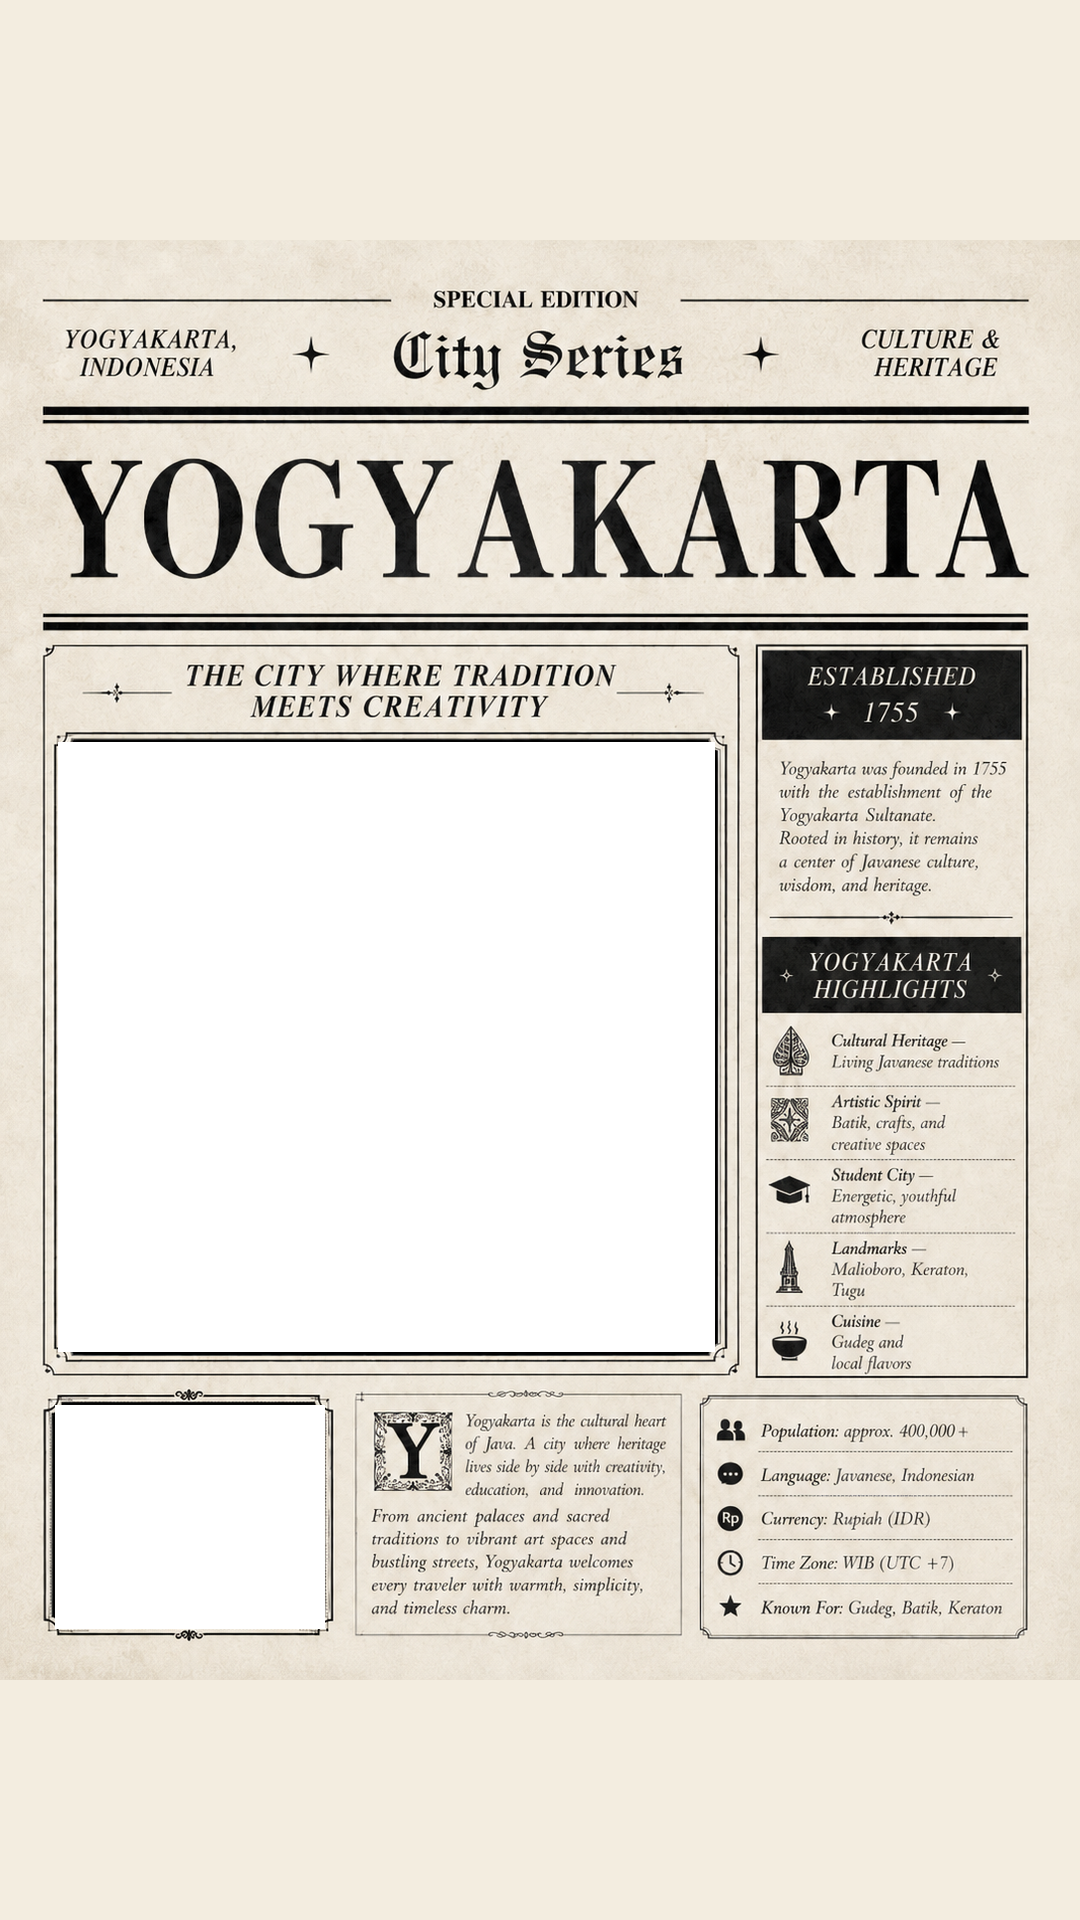
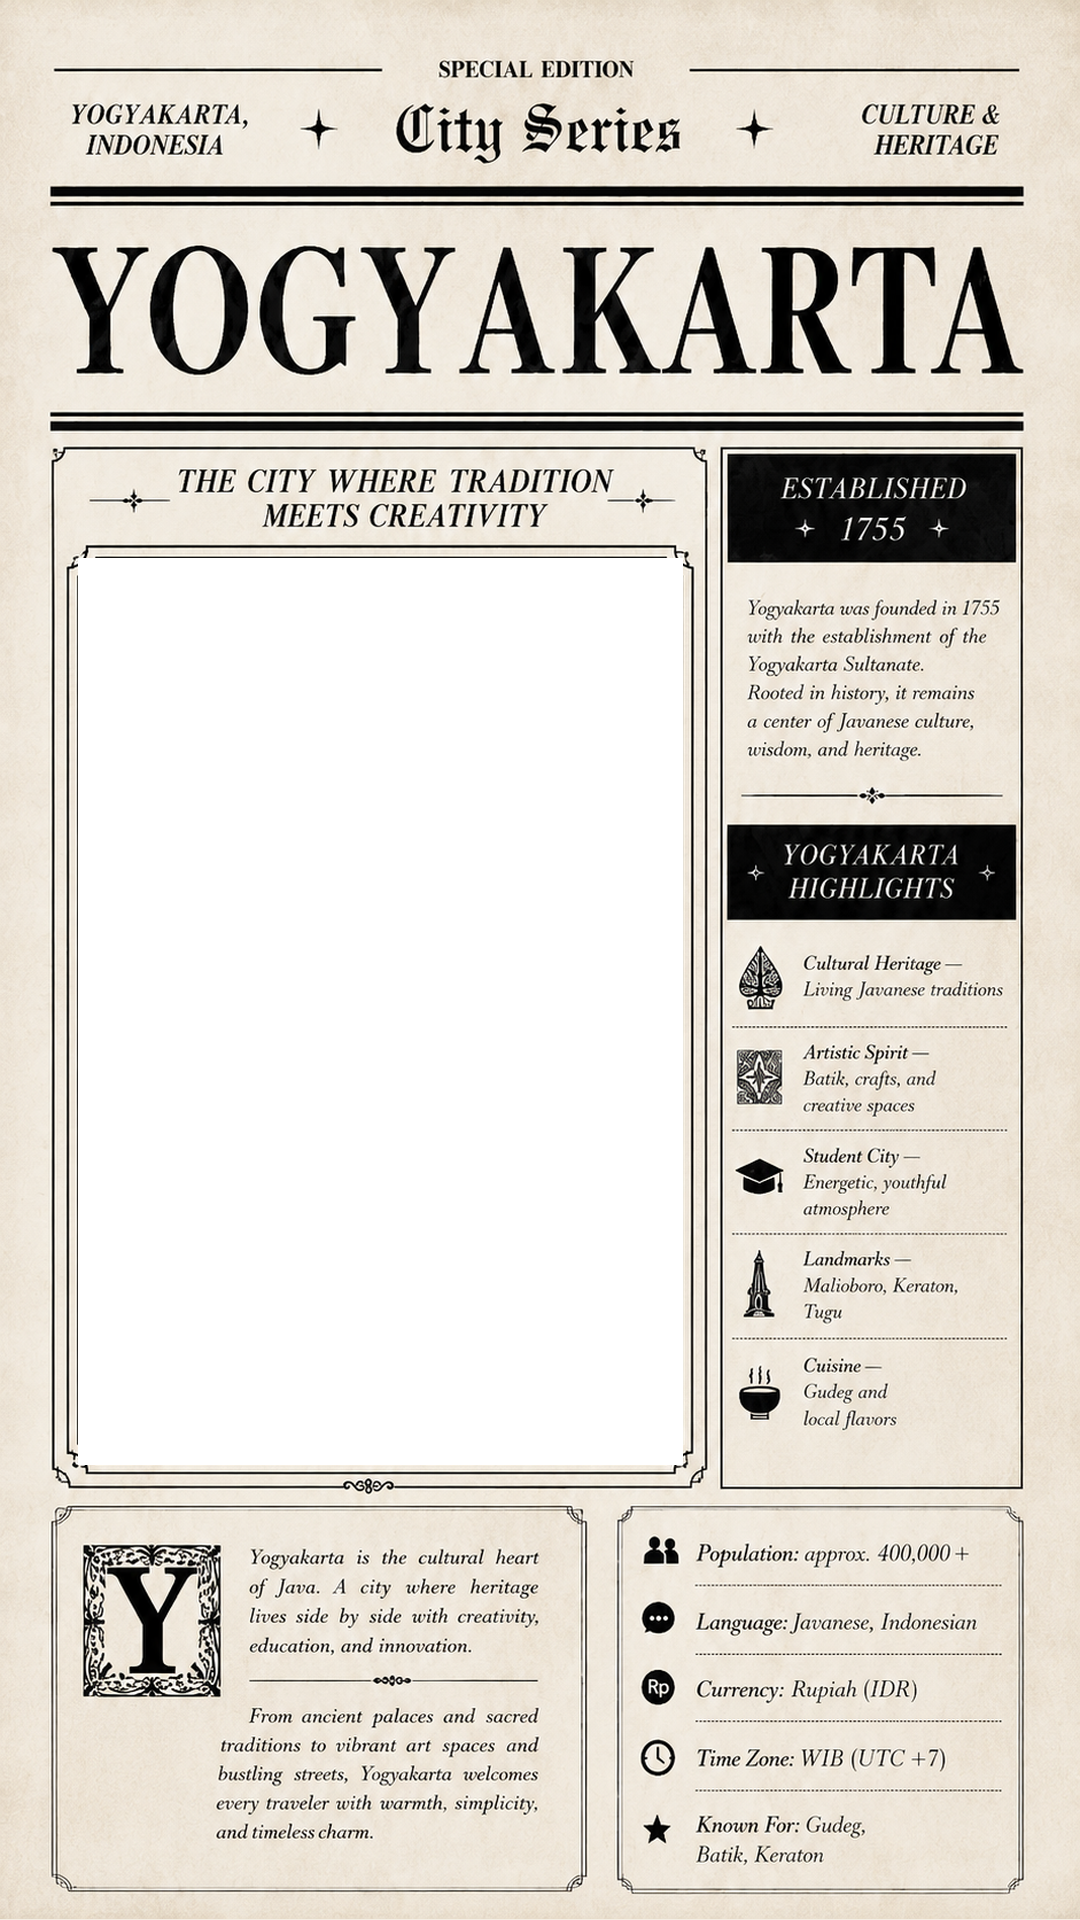
Add files via upload

diff --git a/app.js b/app.js
@@ -65,98 +65,27 @@ const FRAME_CONFIGS = {
     path: 'assets/frames/wisuda-story.png',
     baseSlot: { x: 74, y: 240, w: 932, h: 1175, radius: 14 },
   },
-
   yogyakartaCity: {
     label: 'Yogyakarta City Series',
     path: 'assets/frames/yogyakarta-city-series.png',
     slotsByCount: {
       1: [
-        { x: 58, y: 742, w: 656, h: 608 }
+        { x: 78, y: 558, w: 602, h: 905, radius: 10 }
       ],
       2: [
-        { x: 58, y: 742, w: 656, h: 608 },
-        { x: 55, y: 1399, w: 268, h: 223 }
+        { x: 78, y: 558, w: 602, h: 442, radius: 10 },
+        { x: 78, y: 1021, w: 602, h: 442, radius: 10 }
       ],
       3: [
-        { x: 58, y: 742, w: 656, h: 296 },
-        { x: 58, y: 1054, w: 656, h: 296 },
-        { x: 55, y: 1399, w: 268, h: 223 }
+        { x: 78, y: 558, w: 602, h: 289, radius: 10 },
+        { x: 78, y: 866, w: 602, h: 289, radius: 10 },
+        { x: 78, y: 1174, w: 602, h: 289, radius: 10 }
       ],
       4: [
-        { x: 58, y: 742, w: 656, h: 189 },
-        { x: 58, y: 951, w: 656, h: 189 },
-        { x: 58, y: 1160, w: 656, h: 189 },
-        { x: 55, y: 1399, w: 268, h: 223 }
-      ],
-    },
-  },
-
-  // Template dari referensi scrapbook user
-  birthdayCollage: {
-    label: 'Birthday Collage',
-    path: 'assets/frames/birthday-collage.png',
-    slotsByCount: {
-      1: [{ x: 590, y: 525, w: 315, h: 425 }],
-      2: [
-        { x: 122, y: 1015, w: 350, h: 410 },
-        { x: 612, y: 1185, w: 340, h: 420 },
-      ],
-      3: [
-        { x: 590, y: 525, w: 315, h: 425 },
-        { x: 122, y: 1015, w: 350, h: 410 },
-        { x: 612, y: 1185, w: 340, h: 420 },
-      ],
-      4: [
-        { x: 590, y: 525, w: 315, h: 210 },
-        { x: 590, y: 740, w: 315, h: 210 },
-        { x: 122, y: 1015, w: 350, h: 410 },
-        { x: 612, y: 1185, w: 340, h: 420 },
-      ],
-    },
-  },
-
-  birthdayCamera: {
-    label: 'Birthday Camera',
-    path: 'assets/frames/birthday-camera.png',
-    slotsByCount: {
-      1: [{ x: 472, y: 585, w: 355, h: 248, radius: 12, angle: 10 }],
-      2: [
-        { x: 104, y: 1015, w: 375, h: 370 },
-        { x: 610, y: 1240, w: 350, h: 390 },
-      ],
-      3: [
-        { x: 472, y: 585, w: 355, h: 248, radius: 12, angle: 10 },
-        { x: 104, y: 1015, w: 375, h: 370 },
-        { x: 610, y: 1240, w: 350, h: 390 },
-      ],
-      4: [
-        { x: 472, y: 585, w: 170, h: 248, radius: 10, angle: 10 },
-        { x: 653, y: 585, w: 174, h: 248, radius: 10, angle: 10 },
-        { x: 104, y: 1015, w: 375, h: 370 },
-        { x: 610, y: 1240, w: 350, h: 390 },
-      ],
-    },
-  },
-
-  memoriesBox: {
-    label: 'Memories Box',
-    path: 'assets/frames/memories-box.png',
-    slotsByCount: {
-      1: [{ x: 55, y: 515, w: 530, h: 335 }],
-      2: [
-        { x: 55, y: 515, w: 530, h: 335 },
-        { x: 405, y: 1535, w: 620, h: 280 },
-      ],
-      3: [
-        { x: 55, y: 515, w: 530, h: 335 },
-        { x: 625, y: 730, w: 310, h: 455, angle: 6 },
-        { x: 405, y: 1535, w: 620, h: 280 },
-      ],
-      4: [
-        { x: 55, y: 515, w: 530, h: 335 },
-        { x: 625, y: 730, w: 310, h: 455, angle: 6 },
-        { x: 108, y: 960, w: 410, h: 405, angle: -8 },
-        { x: 405, y: 1535, w: 620, h: 280 },
+        { x: 78, y: 558, w: 602, h: 211, radius: 10 },
+        { x: 78, y: 790, w: 602, h: 211, radius: 10 },
+        { x: 78, y: 1022, w: 602, h: 211, radius: 10 },
+        { x: 78, y: 1254, w: 602, h: 209, radius: 10 }
       ],
     },
   },

diff --git a/README.md b/README.md
@@ -90,3 +90,14 @@ QR Code masih bersifat link lokal browser. Untuk QR publik yang bisa di-scan HP,
   - 3 foto: area besar dibagi 2 strip + area kecil bawah
   - 4 foto: area besar dibagi 3 strip + area kecil bawah
 - Template ini dijadikan pilihan default pada dropdown Frame.
+
+
+## Update v9 – Yogyakarta Template Resize
+
+- Template `Yogyakarta City Series` diperbarui mengikuti desain terbaru yang Anda lampirkan.
+- Area foto kini fokus pada 1 window utama besar.
+- Penempatan foto disesuaikan agar natural:
+  - 1 foto: 1 foto penuh pada area utama
+  - 2 foto: 2 strip vertikal dalam area utama
+  - 3 foto: 3 strip vertikal dalam area utama
+  - 4 foto: 4 strip vertikal dalam area utama
